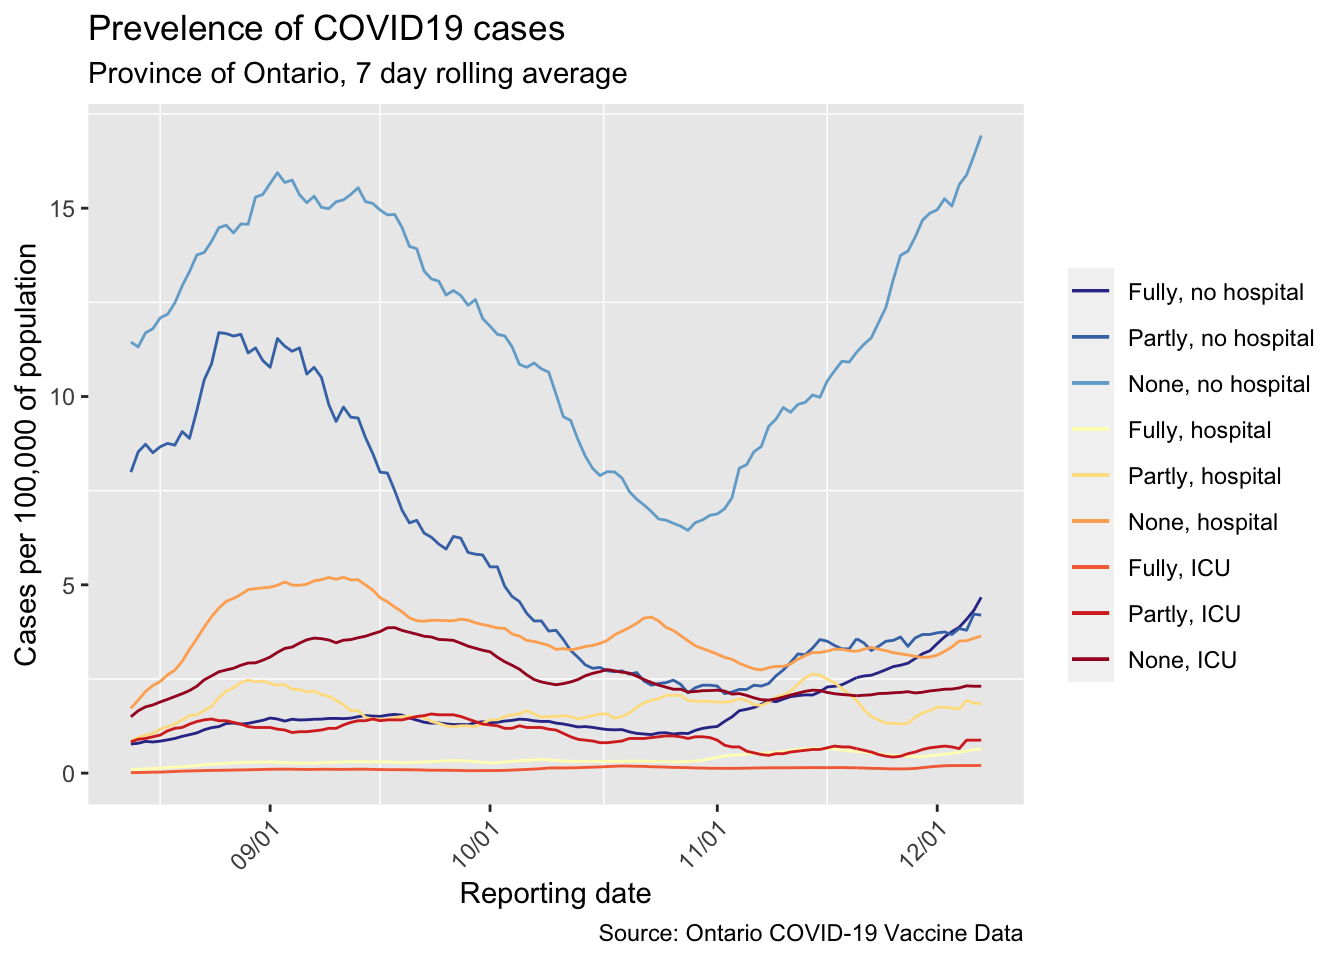
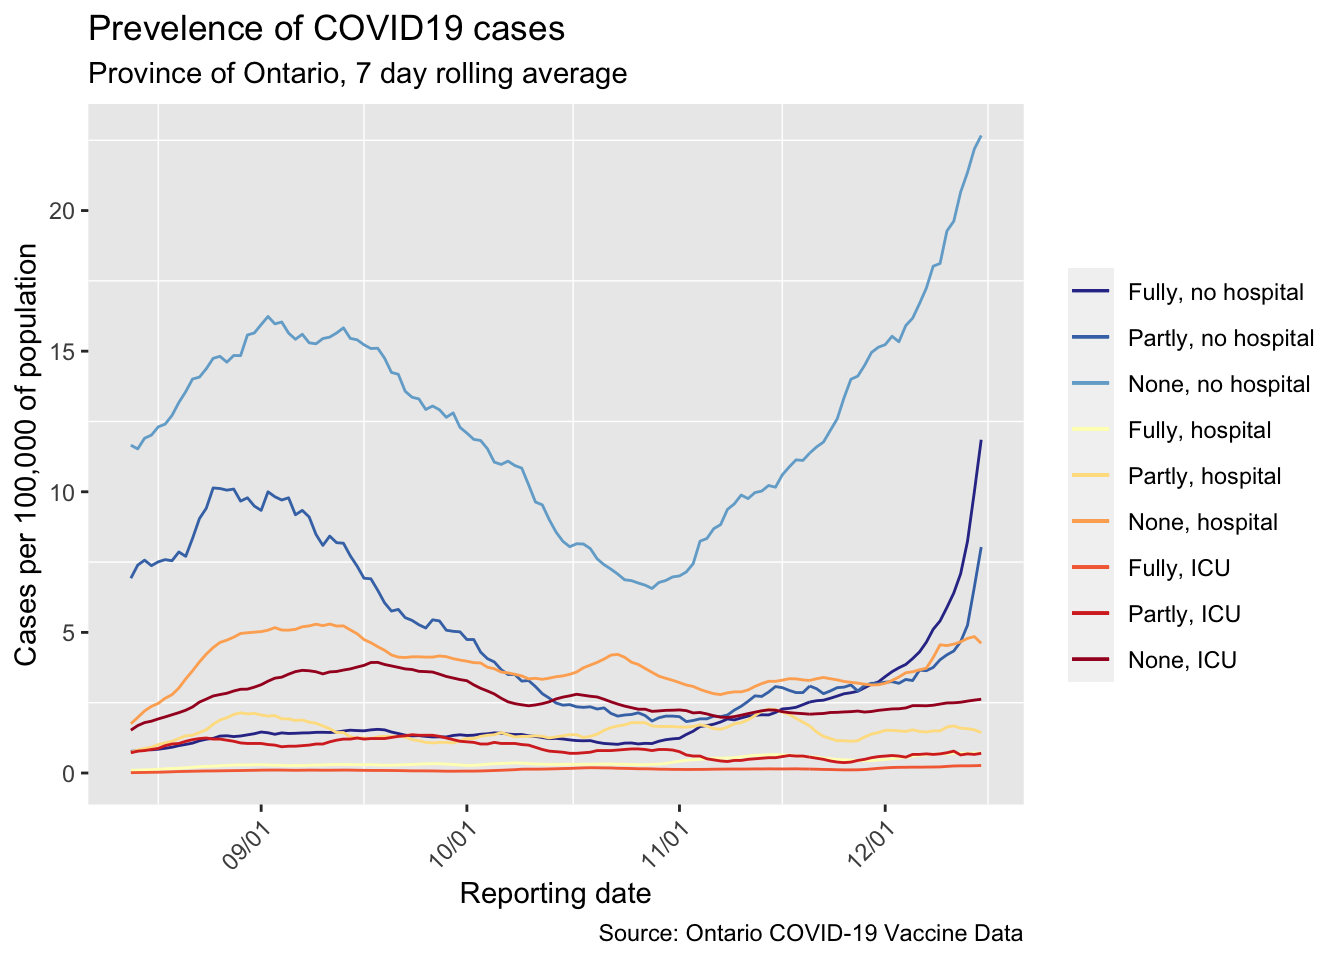
2021-12-19 update
Fixed prevelence rates visualisation, updated population estimates to 2021 4th Quarter.

diff --git a/docs/index.html b/docs/index.html
@@ -10,7 +10,7 @@
 
 
 
-<meta name="date" content="2021-12-10" />
+<meta name="date" content="2021-12-19" />
 
 <title>Ontario COVID-19 vaccination progress</title>
 
@@ -190,7 +190,7 @@ summary {
 
 
 <h1 class="title toc-ignore">Ontario COVID-19 vaccination progress</h1>
-<h4 class="date">2021-12-10</h4>
+<h4 class="date">2021-12-19</h4>
 
 </div>
 
@@ -210,10 +210,10 @@ summary {
 </thead>
 <tbody>
 <tr class="odd">
-<td align="center">2021-12-10</td>
-<td align="center">11316878</td>
-<td align="center">636397</td>
-<td align="center">11953275</td>
+<td align="center">2021-12-19</td>
+<td align="center">11359730</td>
+<td align="center">734314</td>
+<td align="center">12094044</td>
 </tr>
 </tbody>
 </table>
@@ -244,9 +244,9 @@ summary {
 </thead>
 <tbody>
 <tr class="odd">
-<td align="center">2021-12-10</td>
-<td align="center">78390</td>
-<td align="center">24304272</td>
+<td align="center">2021-12-19</td>
+<td align="center">140827</td>
+<td align="center">25315780</td>
 </tr>
 </tbody>
 </table>

diff --git a/docs/ontario-covid-vaccinations.html b/docs/ontario-covid-vaccinations.html
@@ -207,10 +207,10 @@ summary {
 </thead>
 <tbody>
 <tr class="odd">
-<td align="center">2021-12-10</td>
-<td align="center">11316878</td>
-<td align="center">636397</td>
-<td align="center">11953275</td>
+<td align="center">2021-12-19</td>
+<td align="center">11359730</td>
+<td align="center">734314</td>
+<td align="center">12094044</td>
 </tr>
 </tbody>
 </table>
@@ -241,9 +241,9 @@ summary {
 </thead>
 <tbody>
 <tr class="odd">
-<td align="center">2021-12-10</td>
-<td align="center">78390</td>
-<td align="center">24304272</td>
+<td align="center">2021-12-19</td>
+<td align="center">140827</td>
+<td align="center">25315780</td>
 </tr>
 </tbody>
 </table>
